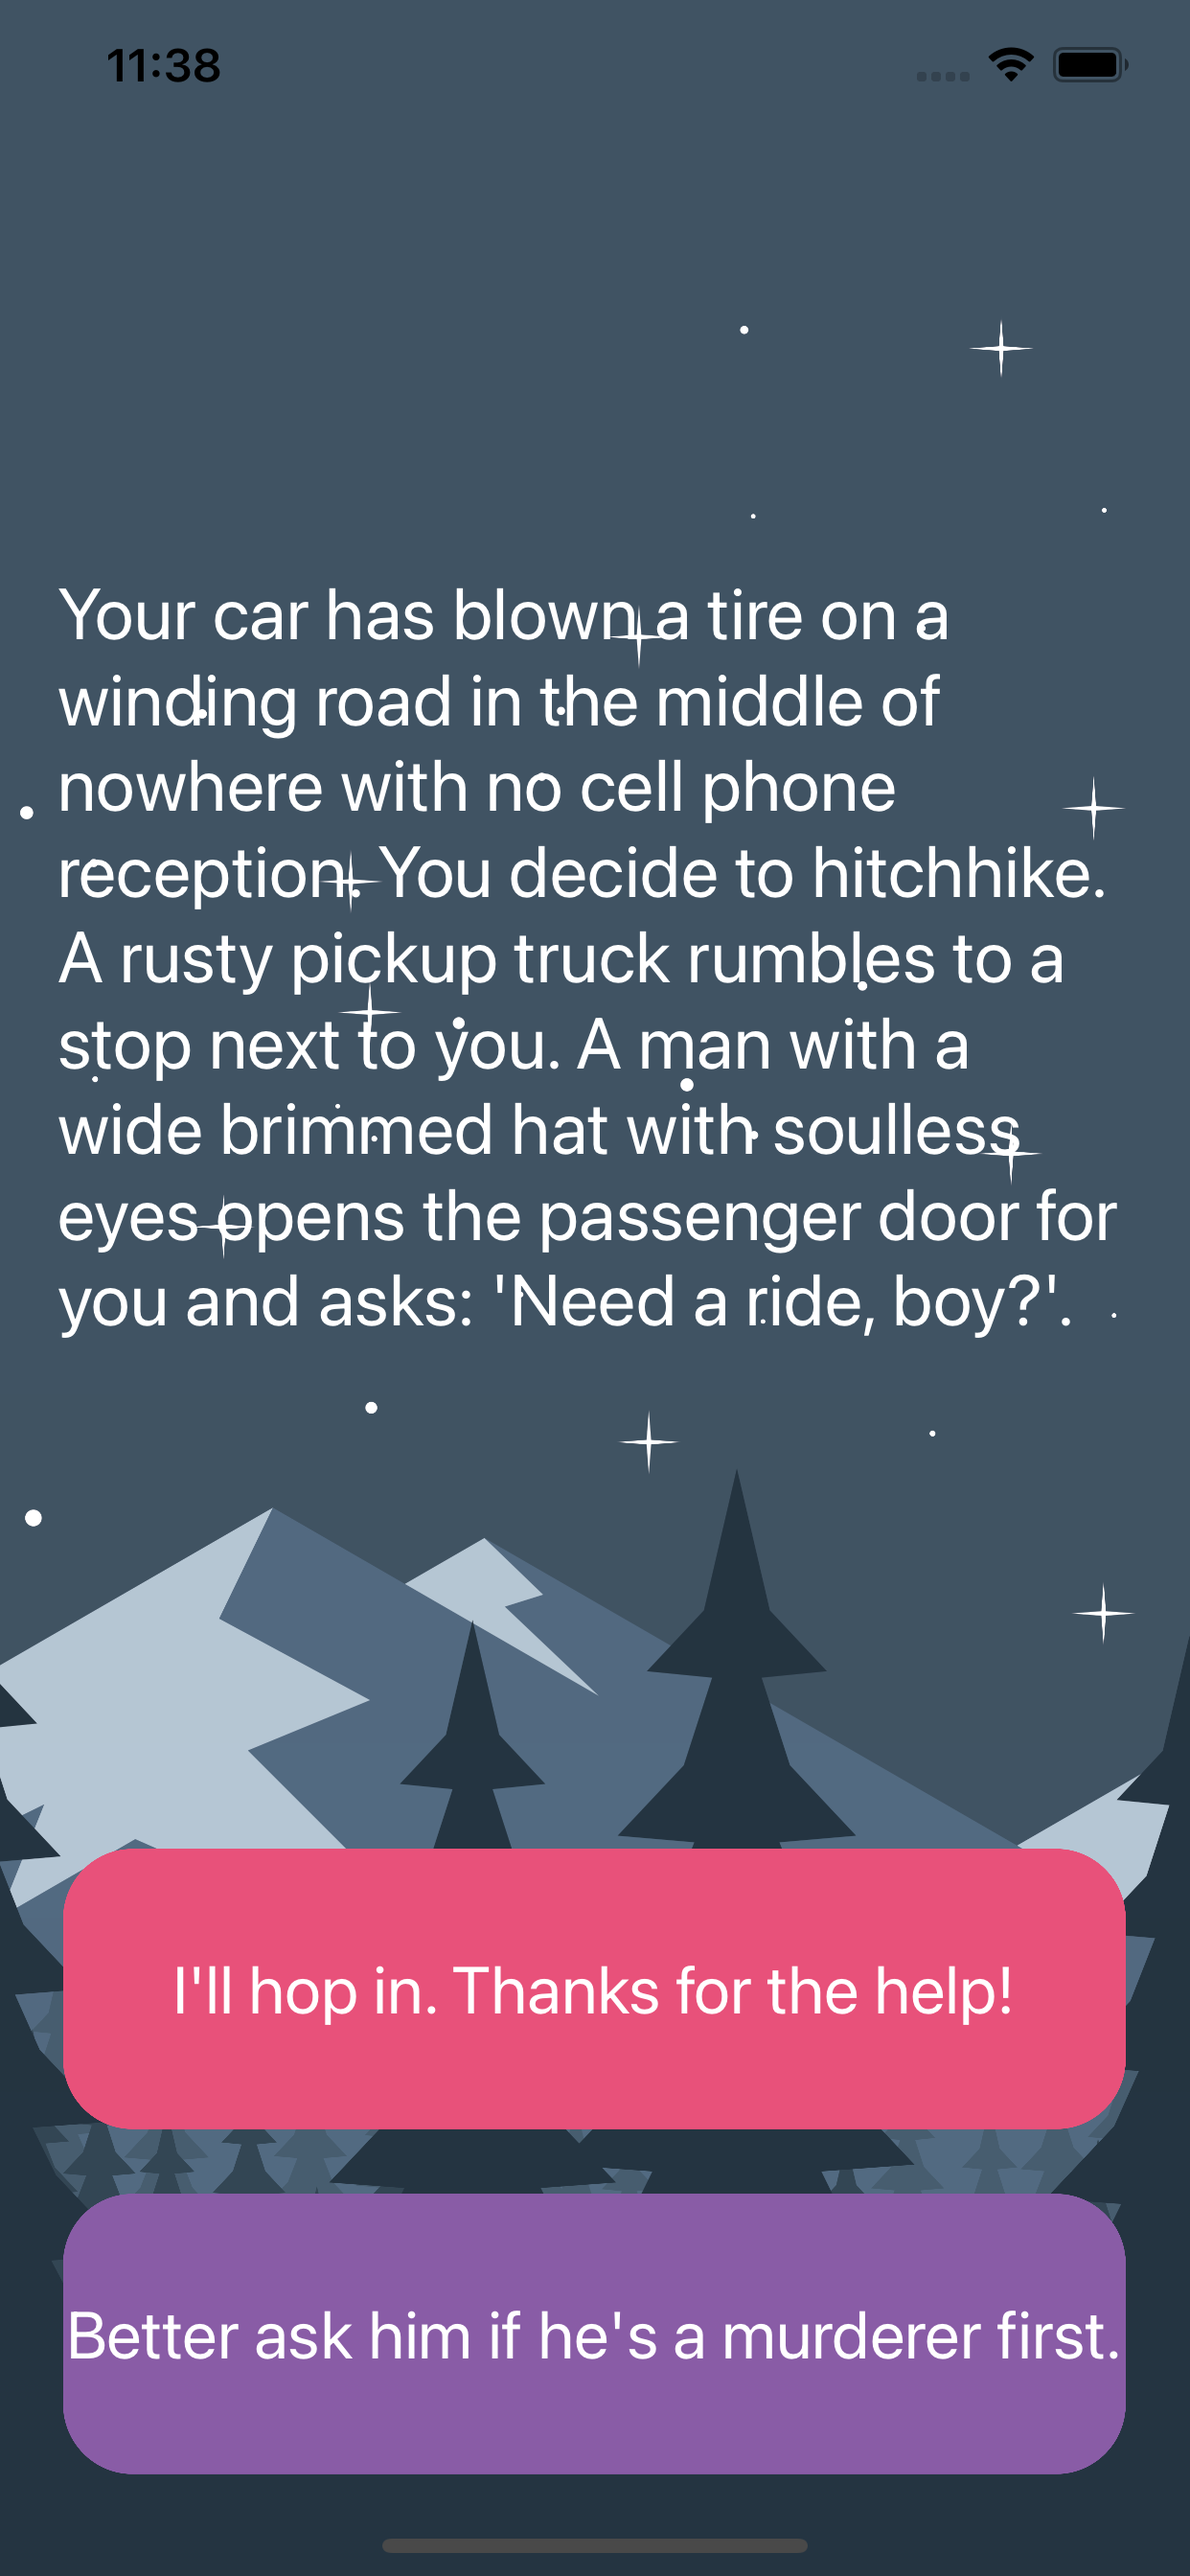
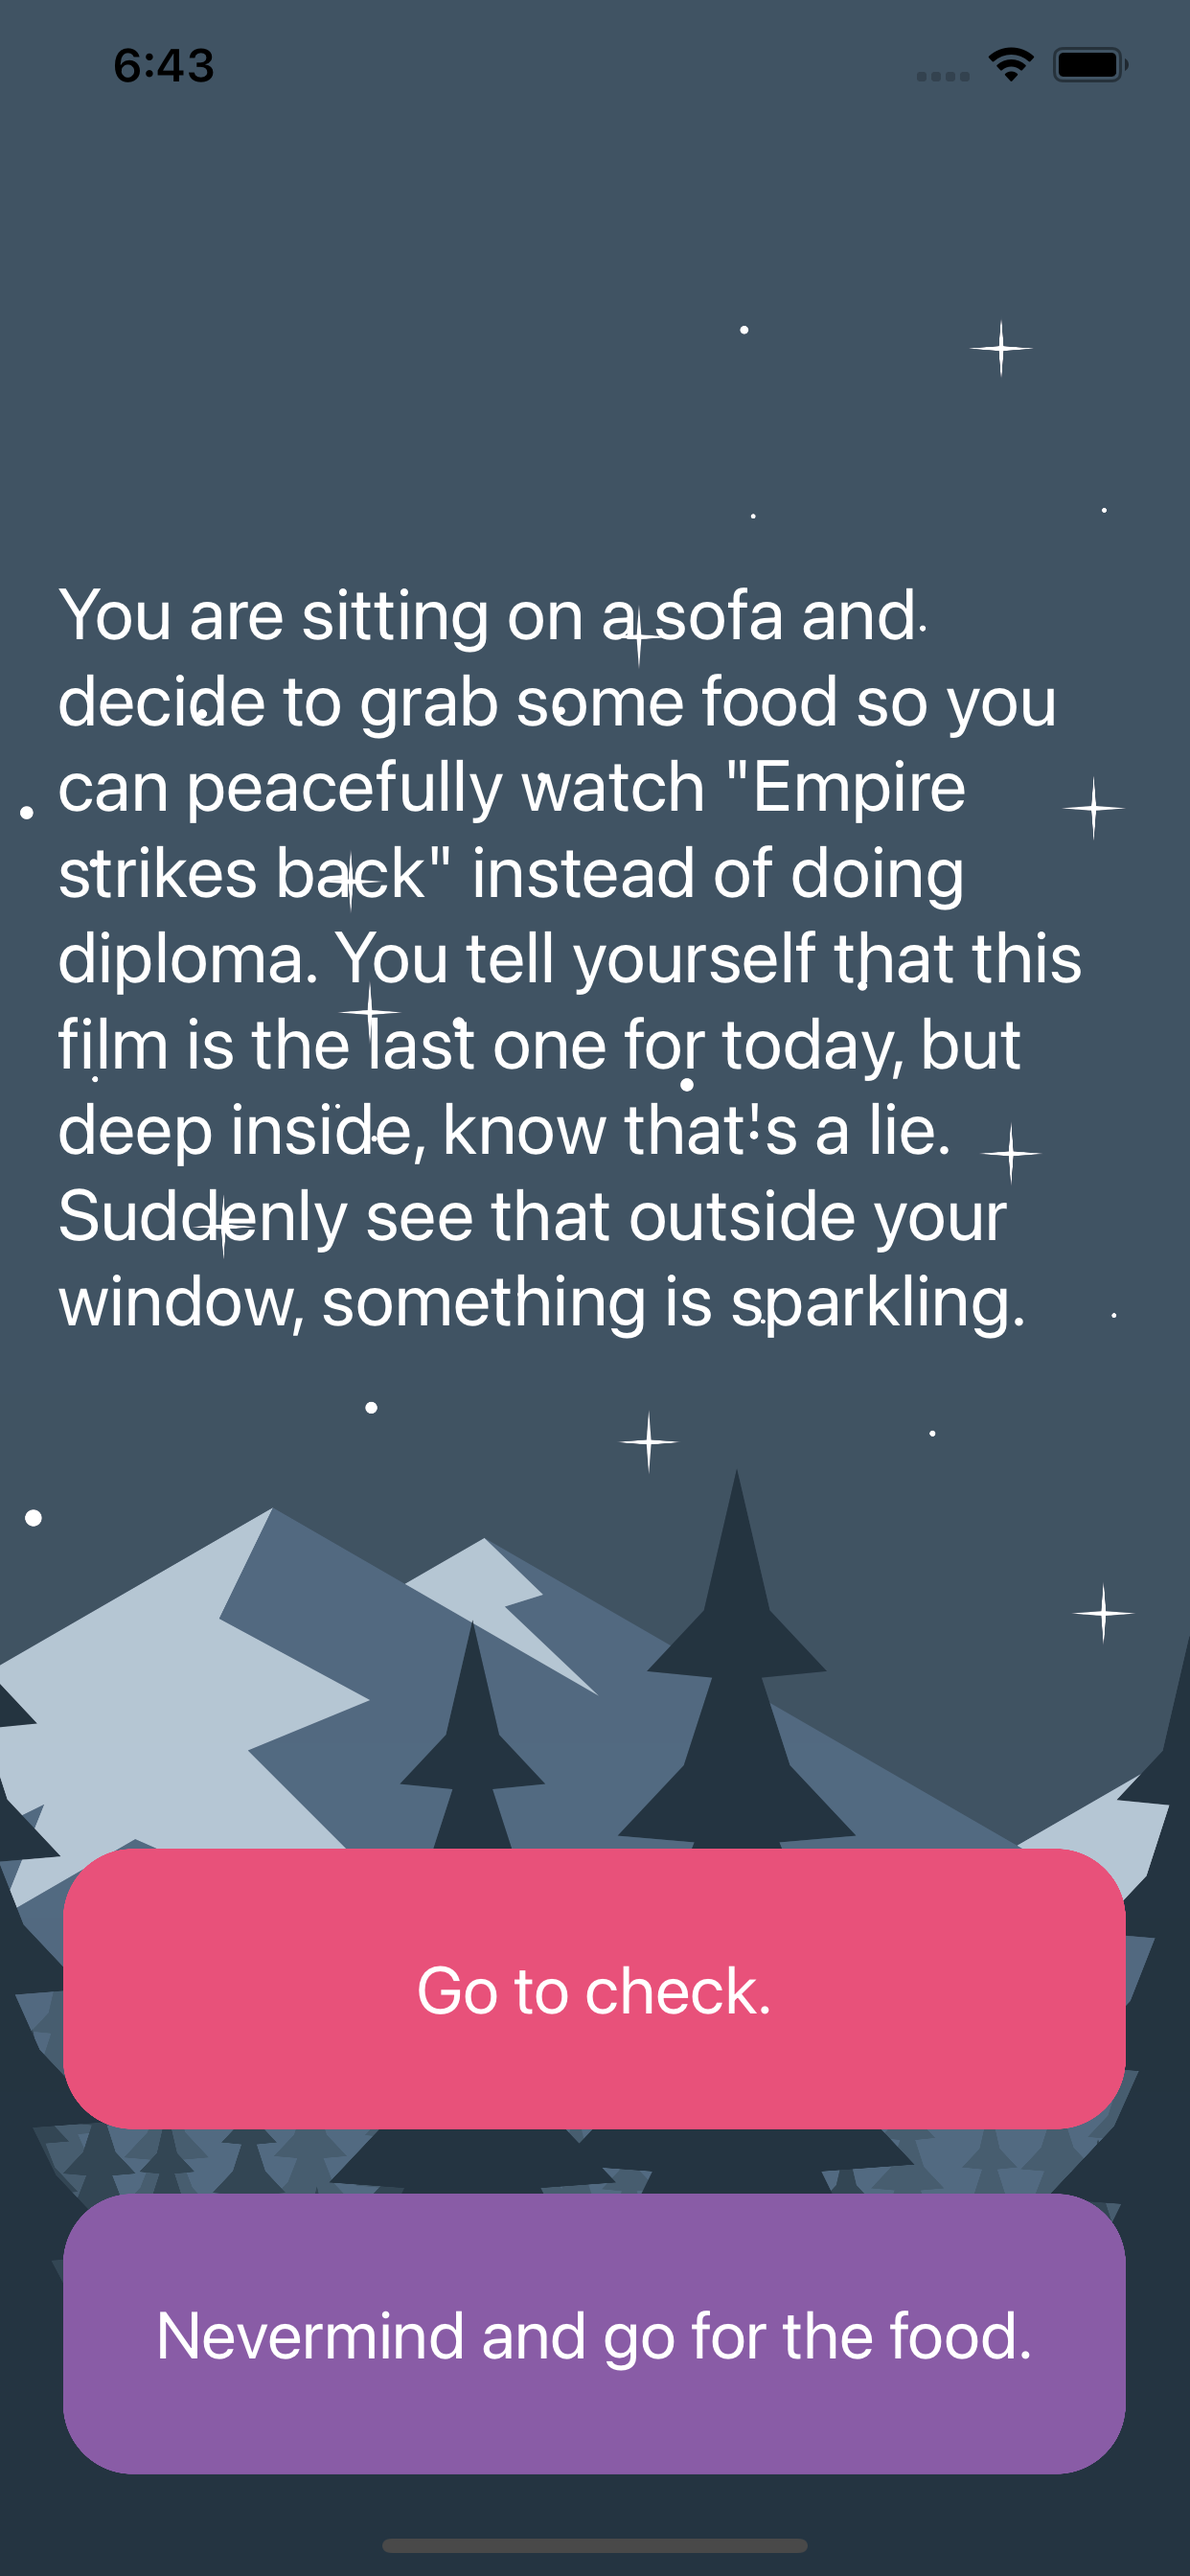
Updated story

diff --git a/Destini-iOS13/Model/StoryBrain.swift b/Destini-iOS13/Model/StoryBrain.swift
@@ -12,32 +12,32 @@ struct StoryBrain {
     
     let stories = [
         Story(
-            title: "Your car has blown a tire on a winding road in the middle of nowhere with no cell phone reception. You decide to hitchhike. A rusty pickup truck rumbles to a stop next to you. A man with a wide brimmed hat with soulless eyes opens the passenger door for you and asks: 'Need a ride, boy?'.",
-            choice1: "I'll hop in. Thanks for the help!", choice1Destination: 2,
-            choice2: "Better ask him if he's a murderer first.", choice2Destination: 1
+            title: "You are sitting on a sofa and decide to grab some food so you can peacefully watch \"Empire strikes back\" instead of doing diploma. You tell yourself that this film is the last one for today, but deep inside, know that's a lie. Suddenly see that outside your window, something is sparkling.",
+            choice1: "Go to check.", choice1Destination: 2,
+            choice2: "Nevermind and go for the food.", choice2Destination: 1
         ),
         Story(
-            title: "He nods slowly, unfazed by the question.",
-            choice1: "At least he's honest. I'll climb in.", choice1Destination: 2,
-            choice2: "Wait, I know how to change a tire.", choice2Destination: 3
+            title: "There is nothing in the kitchen. You stay near the empty fridge and think, is it possible to die because of an old yogurt? The challenge of life and death. Almost like not finished diploma two weeks before the first deadline of antiplagiarism. You hear some noises from your room and return. There is still sparkling from your window. Do you think that that ghost better remembers all IOS App Design Patterns?",
+            choice1: "Check on him.", choice1Destination: 2,
+            choice2: "Grab yogurt and return to your room.", choice2Destination: 3
         ),
         Story(
-            title: "As you begin to drive, the stranger starts talking about his relationship with his mother. He gets angrier and angrier by the minute. He asks you to open the glovebox. Inside you find a bloody knife, two severed fingers, and a cassette tape of Elton John. He reaches for the glove box.",
-            choice1: "I love Elton John! Hand him the cassette tape.", choice1Destination: 5,
-            choice2: "It's him or me! You take the knife and stab him.", choice2Destination: 4
+            title: "You come close and see a man in a robe with a lightsaber standing right in front of you. He's trying to say something, but you can't hear anything.",
+            choice1: "Open the window and say, \"Hello there.\"", choice1Destination: 5,
+            choice2: "Close the curtains.", choice2Destination: 4
         ),
         Story(
-            title: "What? Such a cop out! Did you know traffic accidents are the second leading cause of accidental death for most adult age groups?",
+            title: "You eat yogurt while watching the film. Maybe it is a curse from heaven for making nothing—a terrible choice. You fall sick for the next several days.",
             choice1: "The", choice1Destination: 0,
             choice2: "End", choice2Destination: 0
         ),
         Story(
-            title: "As you smash through the guardrail and careen towards the jagged rocks below you reflect on the dubious wisdom of stabbing someone while they are driving a car you are in.",
+            title: "The situation is weird and even scary. Not so frightening like the teacher of programming from Lviv Polytechnic, but still. The thought of university doesn't get out of your head. Better return to the diploma. You win, Lviv Polytechnic.",
             choice1: "The", choice1Destination: 0,
             choice2: "End", choice2Destination: 0
         ),
         Story(
-            title: "You bond with the murderer while crooning verses of 'Can you feel the love tonight'. He drops you off at the next town. Before you go he asks you if you know any good places to dump bodies. You reply: 'Try the pier.'",
+            title: "\"General Kenobi!\" yell stranger and runs away. Finally! A sing from heaven. You close the window and return to the sofa to continue to watch a film. Not today, diploma, not today.",
             choice1: "The", choice1Destination: 0,
             choice2: "End", choice2Destination: 0
         )
